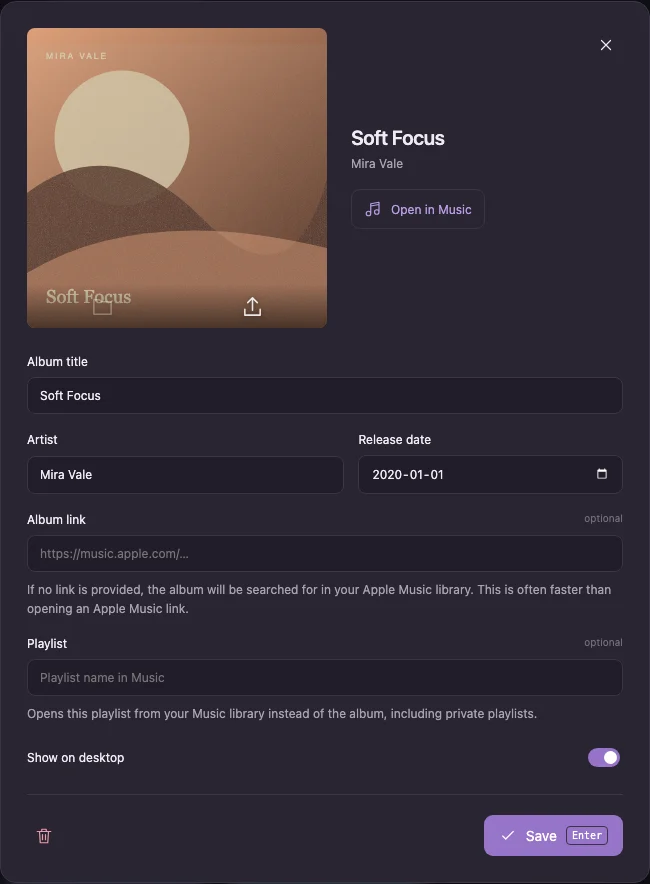
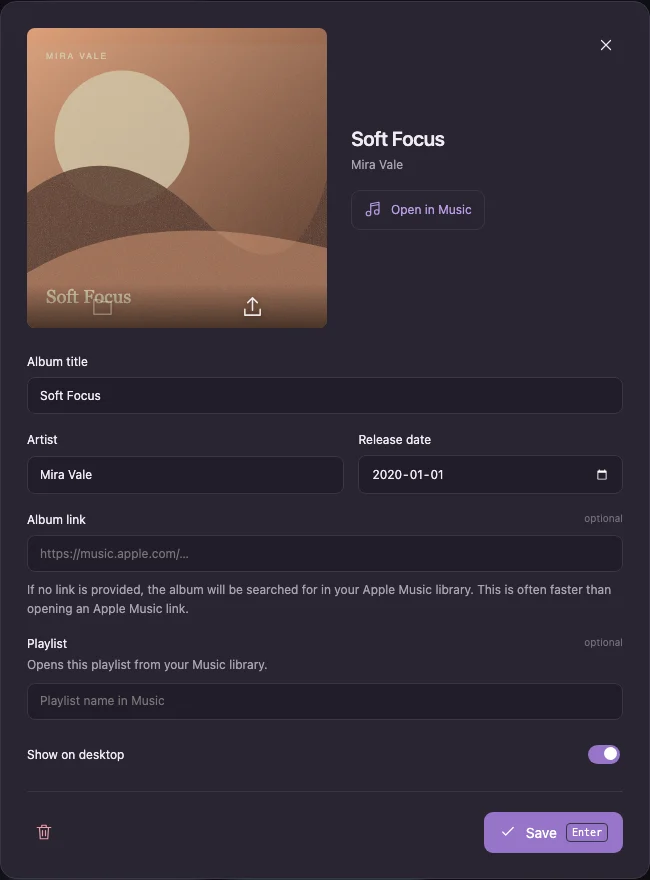
Shorten playlist help and place it under the label

diff --git a/src/App.svelte b/src/App.svelte
@@ -233,7 +233,7 @@
  <input class="visually-hidden" bind:this={files} type="file" accept="image/*" multiple onchange={(e)=>{void browserFiles(Array.from(e.currentTarget.files??[]));e.currentTarget.value=''}} aria-label="Artwork files"/>
  <input class="visually-hidden" bind:this={replacementFiles} type="file" accept="image/*" aria-label="Replacement image" onchange={(e)=>{const file=e.currentTarget.files?.[0];if(file)void replace(file);e.currentTarget.value=''}}/>
  <dialog class="album-dialog" bind:this={modal} onpointerdown={(e)=>backdropPointerDown=e.target===modal&&outsideDialog(modal,e)} onpointerup={(e)=>{if(backdropPointerDown&&e.target===modal&&outsideDialog(modal,e))closeEditor();backdropPointerDown=false}} onclose={()=>{if(!modal.open){gallery?.close();edit=null;confirmRemove=false}}} oncancel={closeEditor}>
- {#if edit}<form bind:this={editorForm} onsubmit={(e)=>{e.preventDefault();void saveAlbum()}}><button class="icon-only editor-close" type="button" aria-label="Close album editor" onclick={closeEditor}><Icon name="close"/></button><div class="editor-top"><div class="editor-artwork" bind:this={artworkTarget} class:replacing ondragover={(e)=>e.preventDefault()} ondrop={(e)=>{e.preventDefault();if(!api.native&&e.dataTransfer?.files.length===1)void replace(e.dataTransfer.files[0])}} role="presentation"><img draggable="false" ondragstart={(e)=>e.preventDefault()} src={api.originalUrl(edit)} alt={edit.title}/><button type="button" class="artwork-expand" aria-label="View original artwork" onclick={()=>edit&&showGallery(edit)}></button><div class="artwork-actions"><button type="button" class="icon-only" aria-label="Show original artwork in Finder" title="Show original artwork in Finder" onclick={revealArtwork} disabled={replacing||!api.native}><Icon name="folder"/></button><button type="button" class="icon-only" aria-label="Replace artwork" title="Replace artwork" onclick={chooseReplacement} disabled={replacing}><Icon name="upload"/></button></div>{#if replacing}<span class="replacement-progress">Replacing…</span>{/if}</div><div><h3>{edit.title}</h3><p>{edit.artist||'Make it your own.'}</p><button type="button" class="open-music" onclick={()=>edit&&open(edit)}><Icon name="music"/>Open in Music</button></div></div><label>Album title<input required bind:value={edit.title}/></label><div class="two-fields"><label>Artist<input bind:value={edit.artist}/></label><label>Release date<input type="date" bind:value={edit.date}/></label></div><label>Album link <span class="optional">optional</span><input type="url" placeholder="https://music.apple.com/…" bind:value={edit.url} aria-describedby={!edit.url.trim()&&!edit.playlist?.trim()?'album-link-help':undefined}/></label>{#if !edit.url.trim()&&!edit.playlist?.trim()}<p id="album-link-help" class="album-link-help">If no link is provided, the album will be searched for in your Apple Music library. This is often faster than opening an Apple Music link.</p>{/if}<label>Playlist <span class="optional">optional</span><input placeholder="Playlist name in Music" bind:value={edit.playlist} aria-describedby="playlist-help"/></label><p id="playlist-help" class="album-link-help">Opens this playlist from your Music library instead of the album, including private playlists.</p><label class="toggle-row"><span>Show on desktop</span><input class="switch" type="checkbox" bind:checked={edit.enabled}/></label><div class="editor-actions">{#if confirmRemove}<button type="button" class="danger" onclick={remove}>Remove this album</button><button type="button" onclick={()=>confirmRemove=false}>Keep it</button>{:else}<button type="button" class="icon-only danger" aria-label="Remove album" onclick={()=>confirmRemove=true}><Icon name="trash"/></button><button type="submit" class="primary" aria-label="Save" aria-keyshortcuts="Enter" disabled={saving||replacing}><Icon name="check"/>Save<Shortcut keys={['Enter']}/></button>{/if}</div></form>{/if}
+ {#if edit}<form bind:this={editorForm} onsubmit={(e)=>{e.preventDefault();void saveAlbum()}}><button class="icon-only editor-close" type="button" aria-label="Close album editor" onclick={closeEditor}><Icon name="close"/></button><div class="editor-top"><div class="editor-artwork" bind:this={artworkTarget} class:replacing ondragover={(e)=>e.preventDefault()} ondrop={(e)=>{e.preventDefault();if(!api.native&&e.dataTransfer?.files.length===1)void replace(e.dataTransfer.files[0])}} role="presentation"><img draggable="false" ondragstart={(e)=>e.preventDefault()} src={api.originalUrl(edit)} alt={edit.title}/><button type="button" class="artwork-expand" aria-label="View original artwork" onclick={()=>edit&&showGallery(edit)}></button><div class="artwork-actions"><button type="button" class="icon-only" aria-label="Show original artwork in Finder" title="Show original artwork in Finder" onclick={revealArtwork} disabled={replacing||!api.native}><Icon name="folder"/></button><button type="button" class="icon-only" aria-label="Replace artwork" title="Replace artwork" onclick={chooseReplacement} disabled={replacing}><Icon name="upload"/></button></div>{#if replacing}<span class="replacement-progress">Replacing…</span>{/if}</div><div><h3>{edit.title}</h3><p>{edit.artist||'Make it your own.'}</p><button type="button" class="open-music" onclick={()=>edit&&open(edit)}><Icon name="music"/>Open in Music</button></div></div><label>Album title<input required bind:value={edit.title}/></label><div class="two-fields"><label>Artist<input bind:value={edit.artist}/></label><label>Release date<input type="date" bind:value={edit.date}/></label></div><label>Album link <span class="optional">optional</span><input type="url" placeholder="https://music.apple.com/…" bind:value={edit.url} aria-describedby={!edit.url.trim()&&!edit.playlist?.trim()?'album-link-help':undefined}/></label>{#if !edit.url.trim()&&!edit.playlist?.trim()}<p id="album-link-help" class="album-link-help">If no link is provided, the album will be searched for in your Apple Music library. This is often faster than opening an Apple Music link.</p>{/if}<label>Playlist <span class="optional">optional</span><span id="playlist-help" class="field-help">Opens this playlist from your Music library.</span><input placeholder="Playlist name in Music" bind:value={edit.playlist} aria-describedby="playlist-help"/></label><label class="toggle-row"><span>Show on desktop</span><input class="switch" type="checkbox" bind:checked={edit.enabled}/></label><div class="editor-actions">{#if confirmRemove}<button type="button" class="danger" onclick={remove}>Remove this album</button><button type="button" onclick={()=>confirmRemove=false}>Keep it</button>{:else}<button type="button" class="icon-only danger" aria-label="Remove album" onclick={()=>confirmRemove=true}><Icon name="trash"/></button><button type="submit" class="primary" aria-label="Save" aria-keyshortcuts="Enter" disabled={saving||replacing}><Icon name="check"/>Save<Shortcut keys={['Enter']}/></button>{/if}</div></form>{/if}
  </dialog>
  <dialog class="artwork-gallery" bind:this={gallery} aria-label="Original artwork" onclose={()=>{if(!gallery.open)galleryAlbum=null}} onclick={closeGallery} onkeydown={(e)=>{if(e.key==='Escape'){e.preventDefault();e.stopPropagation();closeGallery()}}}>
   {#if galleryAlbum}<img src={api.originalUrl(galleryAlbum)} alt={galleryAlbum.title} draggable="false" ondragstart={(e)=>e.preventDefault()} onload={(e)=>{const image=e.currentTarget as HTMLImageElement;artworkRatio=image.naturalWidth/image.naturalHeight}} style={`--artwork-ratio:${artworkRatio}`}/>{/if}

diff --git a/src/app.css b/src/app.css
@@ -11,6 +11,7 @@ dialog{width:min(510px,calc(100vw - 40px));padding:26px;border:1px solid var(--l
 
 .modal-error{color:var(--danger);font-size:12px;line-height:1.6;margin-bottom:18px;white-space:pre-wrap}
 .album-link-help{color:var(--muted);font-size:12px;line-height:1.6;margin:-10px 0 18px}
+.field-help{color:var(--muted);line-height:1.6;margin-top:-4px}
 
 /* Compact settings and the three appearance choices. */
 .settings-compact{max-width:660px;margin:0 auto;padding:4px 26px}.settings-compact .setting-row{margin:0;padding:24px 0;min-height:78px;font-size:13px}.settings-compact .setting-row+.setting-row{border-top:1px solid var(--line)}.settings-compact .setting-row>button{font-size:12px}.appearance-options{display:flex;gap:20px}.appearance-option{display:flex;flex-direction:column;gap:7px;padding:3px;border:0;background:none!important;font-size:10px;color:var(--muted)}.appearance-option .appearance-circle{border-radius:50%;padding:2px;width:34px;height:34px}.appearance-option.chosen .appearance-circle{outline:2px solid var(--accent);outline-offset:2px}.appearance-option.chosen{color:var(--ink)}.collection-toolbar .status-pill{font-size:10px;padding:7px 10px}.settings-compact+.footer{max-width:660px}.app-shell main{padding-top:24px}.settings-compact{margin-top:10px;margin-bottom:28px}
